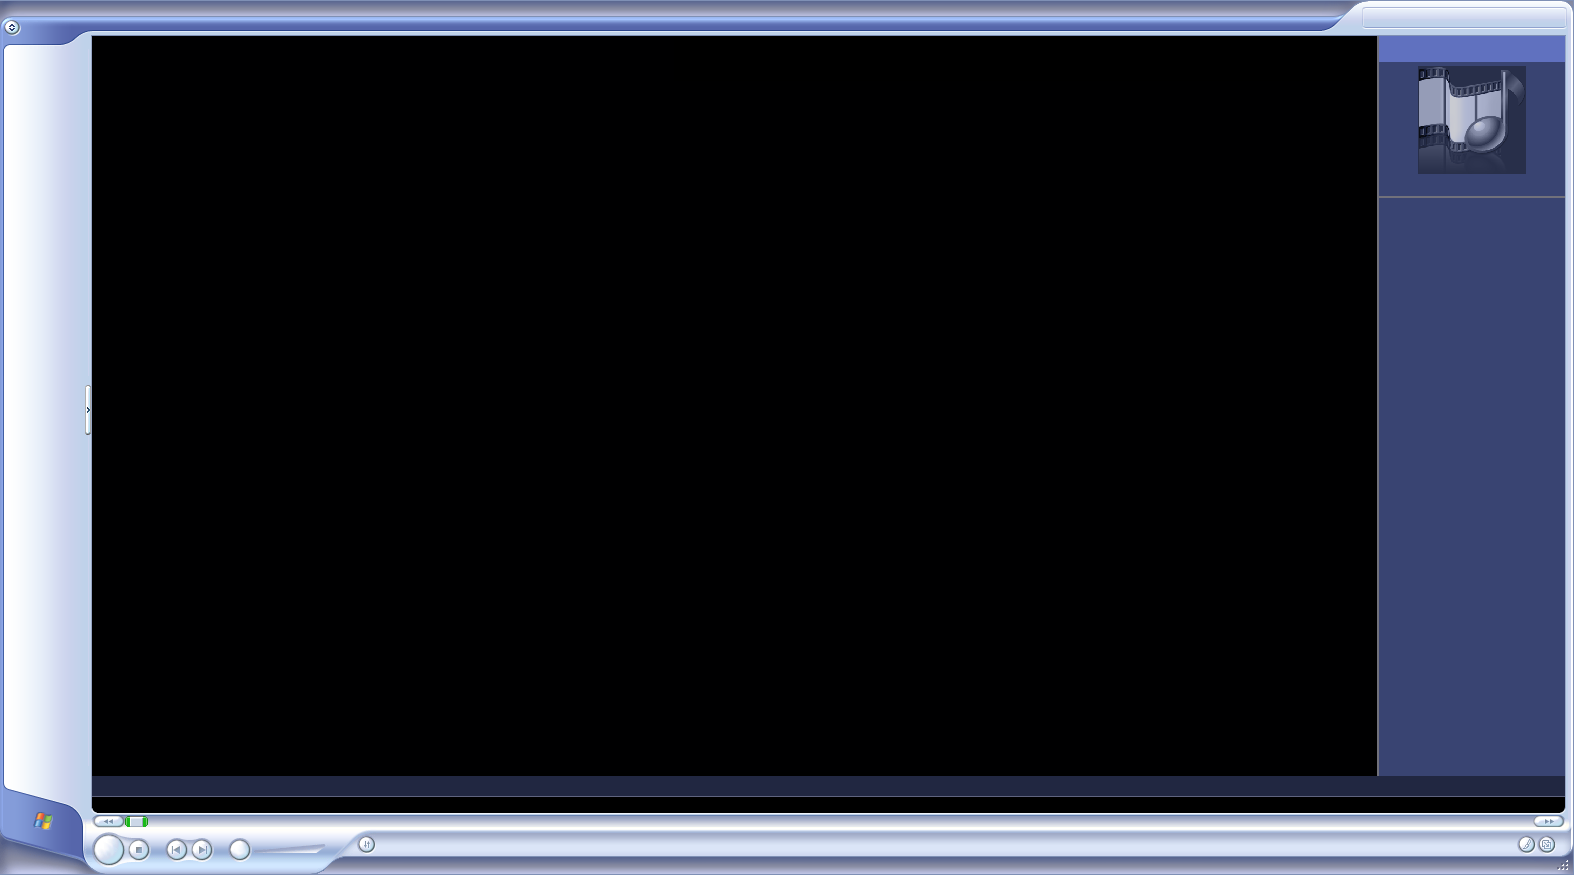
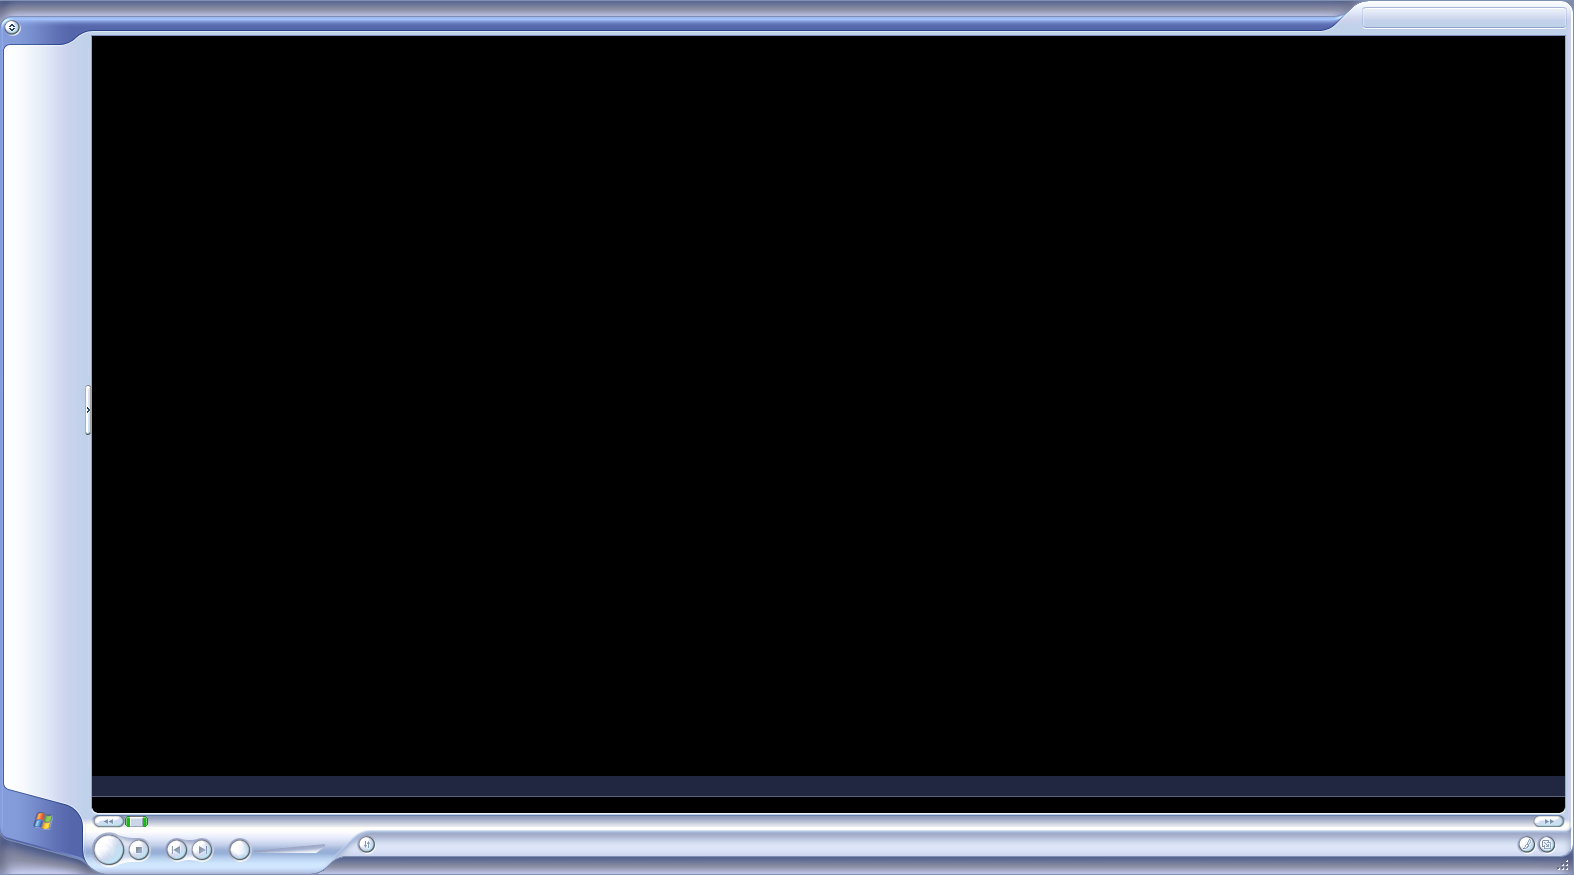
media player visuals fixing on mobile

Changed region(s): [[0.8717, 0.0309, 0.9962, 0.8949]]

diff --git a/src/screen_parts/desktop/Window_contents/Media_player/Media_player.module.css b/src/screen_parts/desktop/Window_contents/Media_player/Media_player.module.css
@@ -7,18 +7,24 @@
   width: 100%;
   height: 100%;
   display: grid;
-  grid-template-columns: 5.8% 2.1% 6.6% 1.4% 0.6% 4.2% 66.8% auto;
+  grid-template-columns: 5.8% 2.1% 6.6% 1.4% 0.6% 4.2% 62.3% auto 0.5%;
   grid-template-rows: 4% 18.5% 66% 2.6% 1.7% 2.5% 3.6% auto;
   grid-template-areas: 
-  ". . . . . . . ."
-  ". . . . . . . ."
-  ". . . . . . . track-select"
-  ". . . . . . . ."
-  ". . . . . . . ."
-  ". . . . . . . ."
-  ". play-pause . mute-un-mute . volume . ."
-  ". . . . . . . .";
+  ". . . . . . . . ."
+  ". . . . . . . track-select ."
+  ". . . . . . . track-select ."
+  ". . . . . . . . ."
+  ". . . . . . . . ."
+  ". . . . . . . . ."
+  ". play-pause . mute-un-mute . volume . . ."
+  ". . . . . . . . .";
 }
+@media (max-width: 600px){
+  .main_container{
+    grid-template-columns: 5.5% 2.5% 6.6% 1.4% 0.6% 4.2% 42.3% auto 0.5%;
+  }
+}
+
 .play_pause_btn{
   grid-area: play-pause;
   width: 100%;
@@ -42,6 +48,16 @@
 }
 .track_select_wrapper{
   grid-area: track-select;
+  background-image: url('../../../../assets/media_player/track_select_bg.png');
+  background-size: 100% 100%;
+  background-repeat: no-repeat;
+  background-position: center;
+}
+.track_select_wrapper::before {
+  content: '';
+  display: block;
+  height: 22%;
+  width: 100%;
 }
 .track_select_btn{
   color: white;

diff --git a/src/screen_parts/desktop/Window_contents/Media_player.tsx b/src/screen_parts/desktop/Window_contents/Media_player.tsx
@@ -106,7 +106,7 @@ export function MediaPlayer({windowIsMaximized}: {windowIsMaximized: boolean}): 
                         />
                     ))
                 ) : (
-                    <div>No radio stations found</div>
+                    <div className='text-white'>No radio stations found</div>
                 )}
             </div>
         </div>
